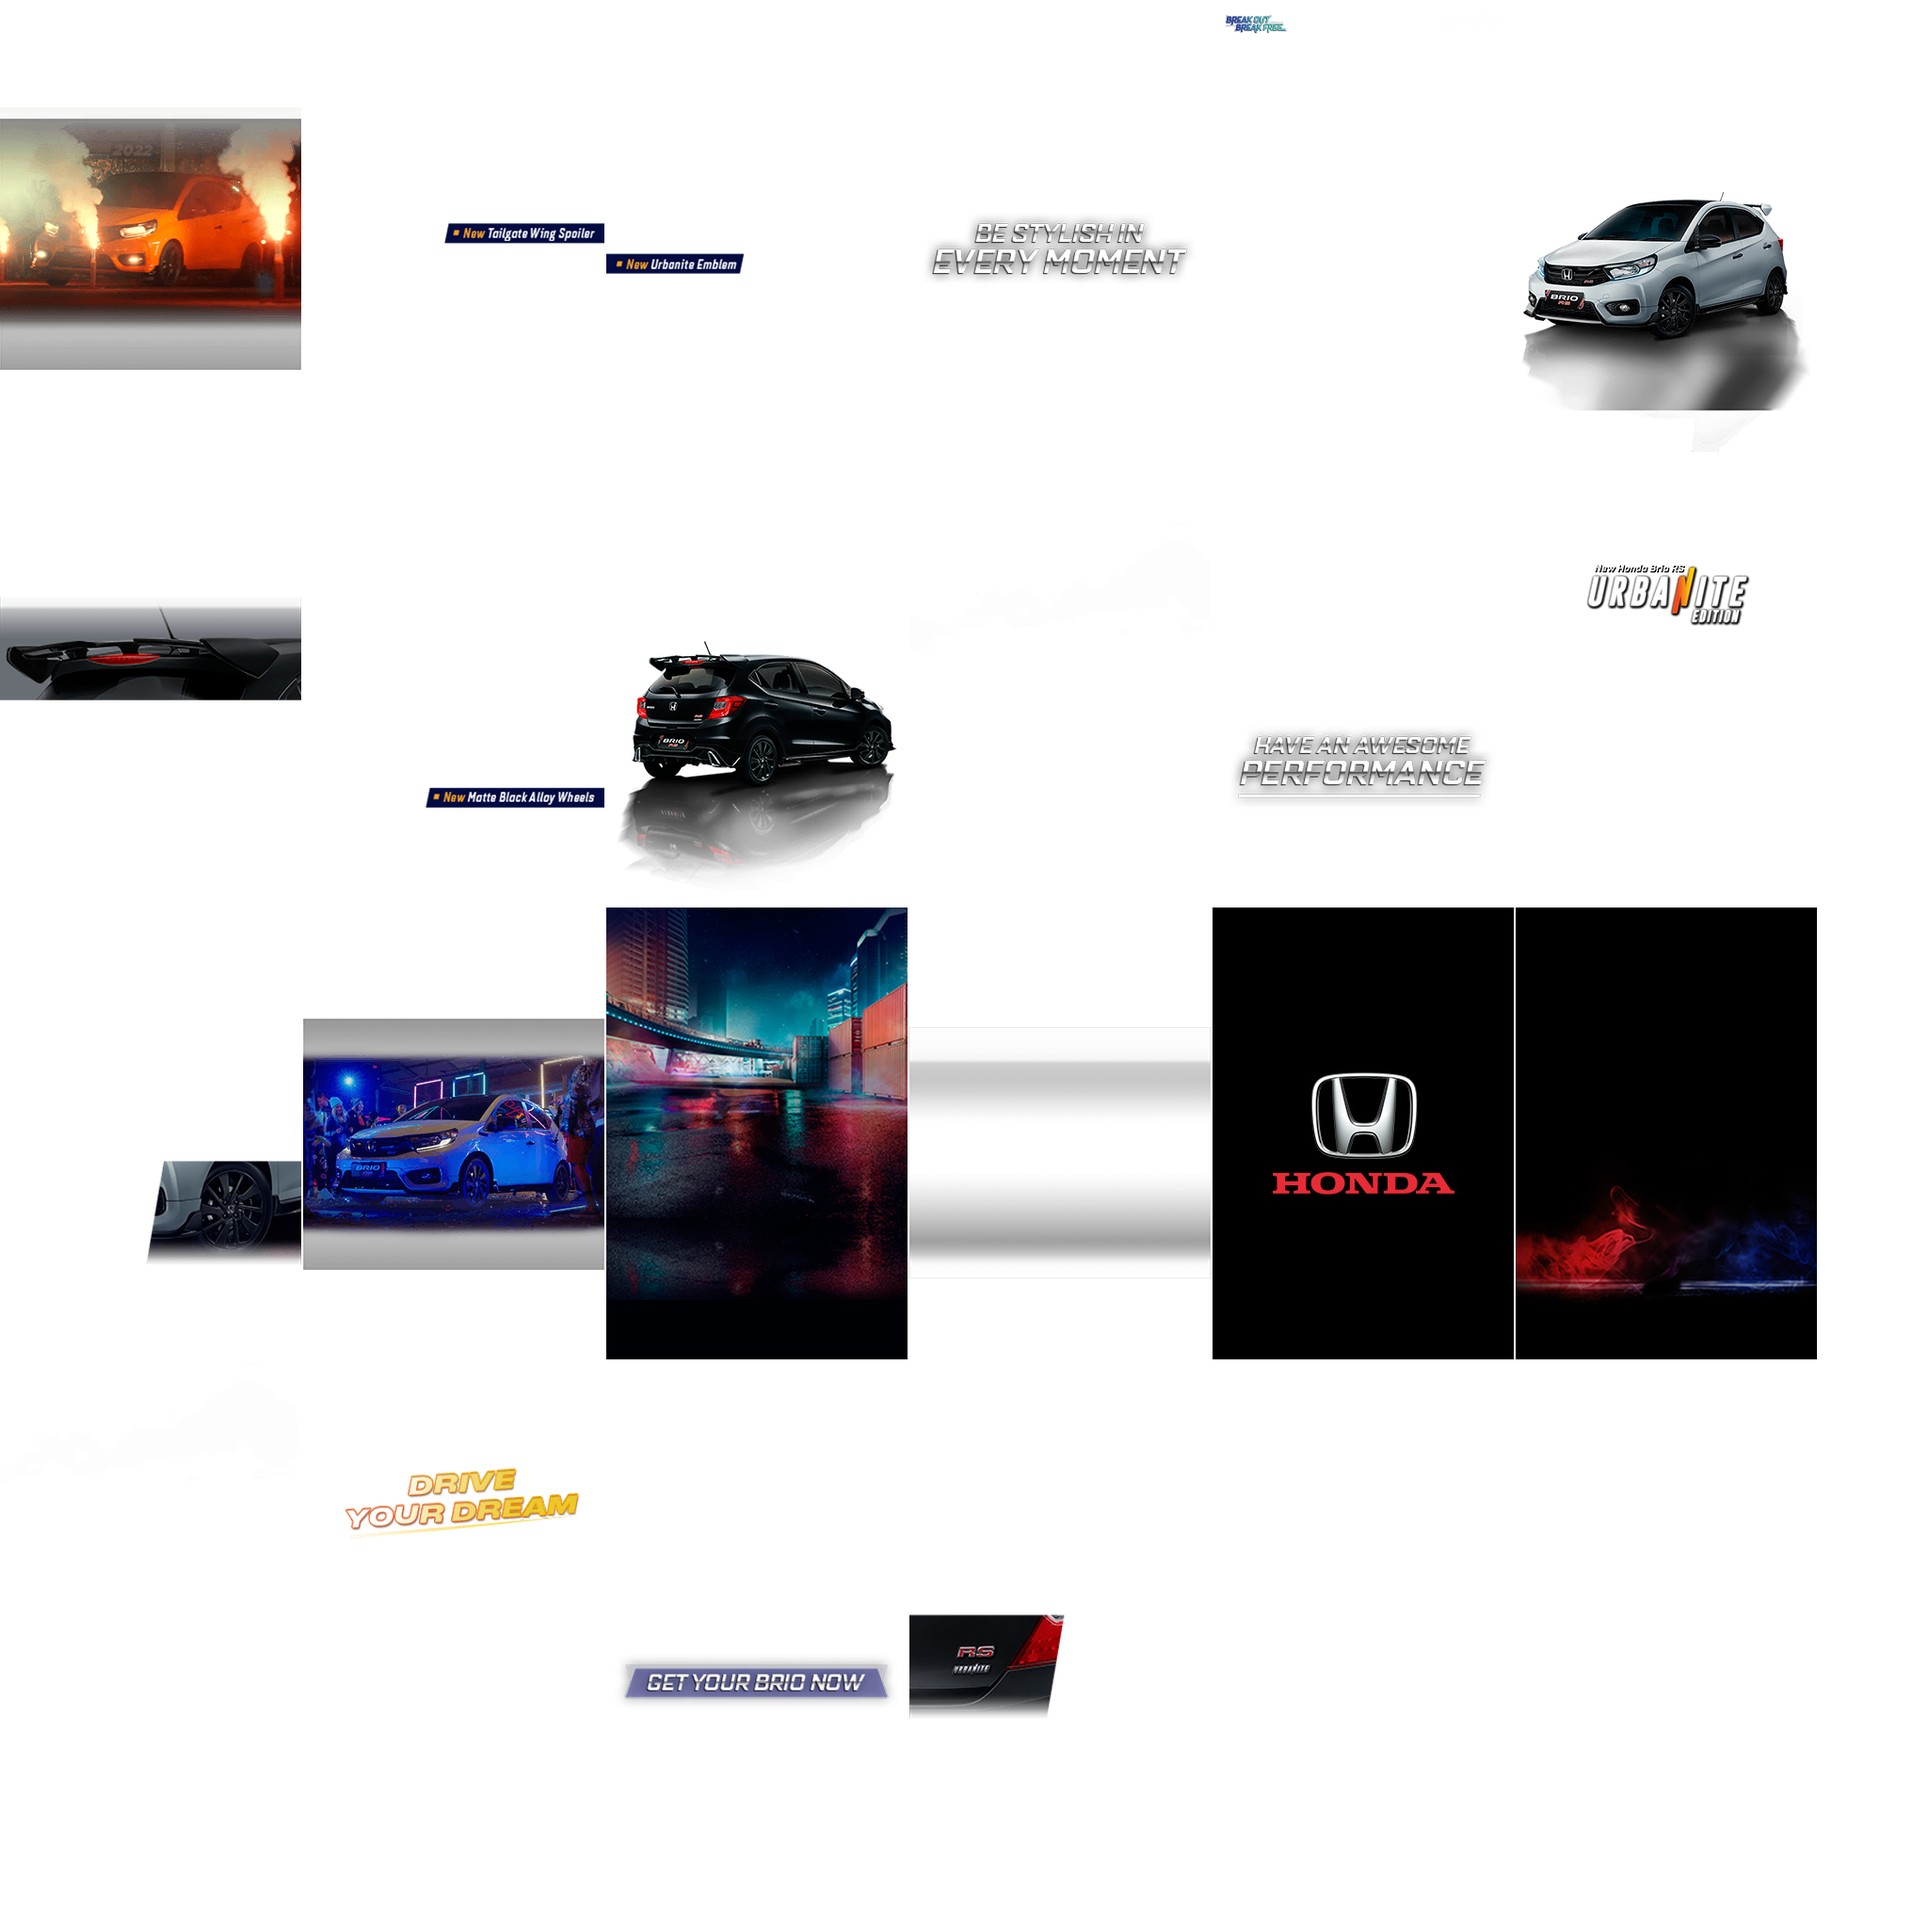
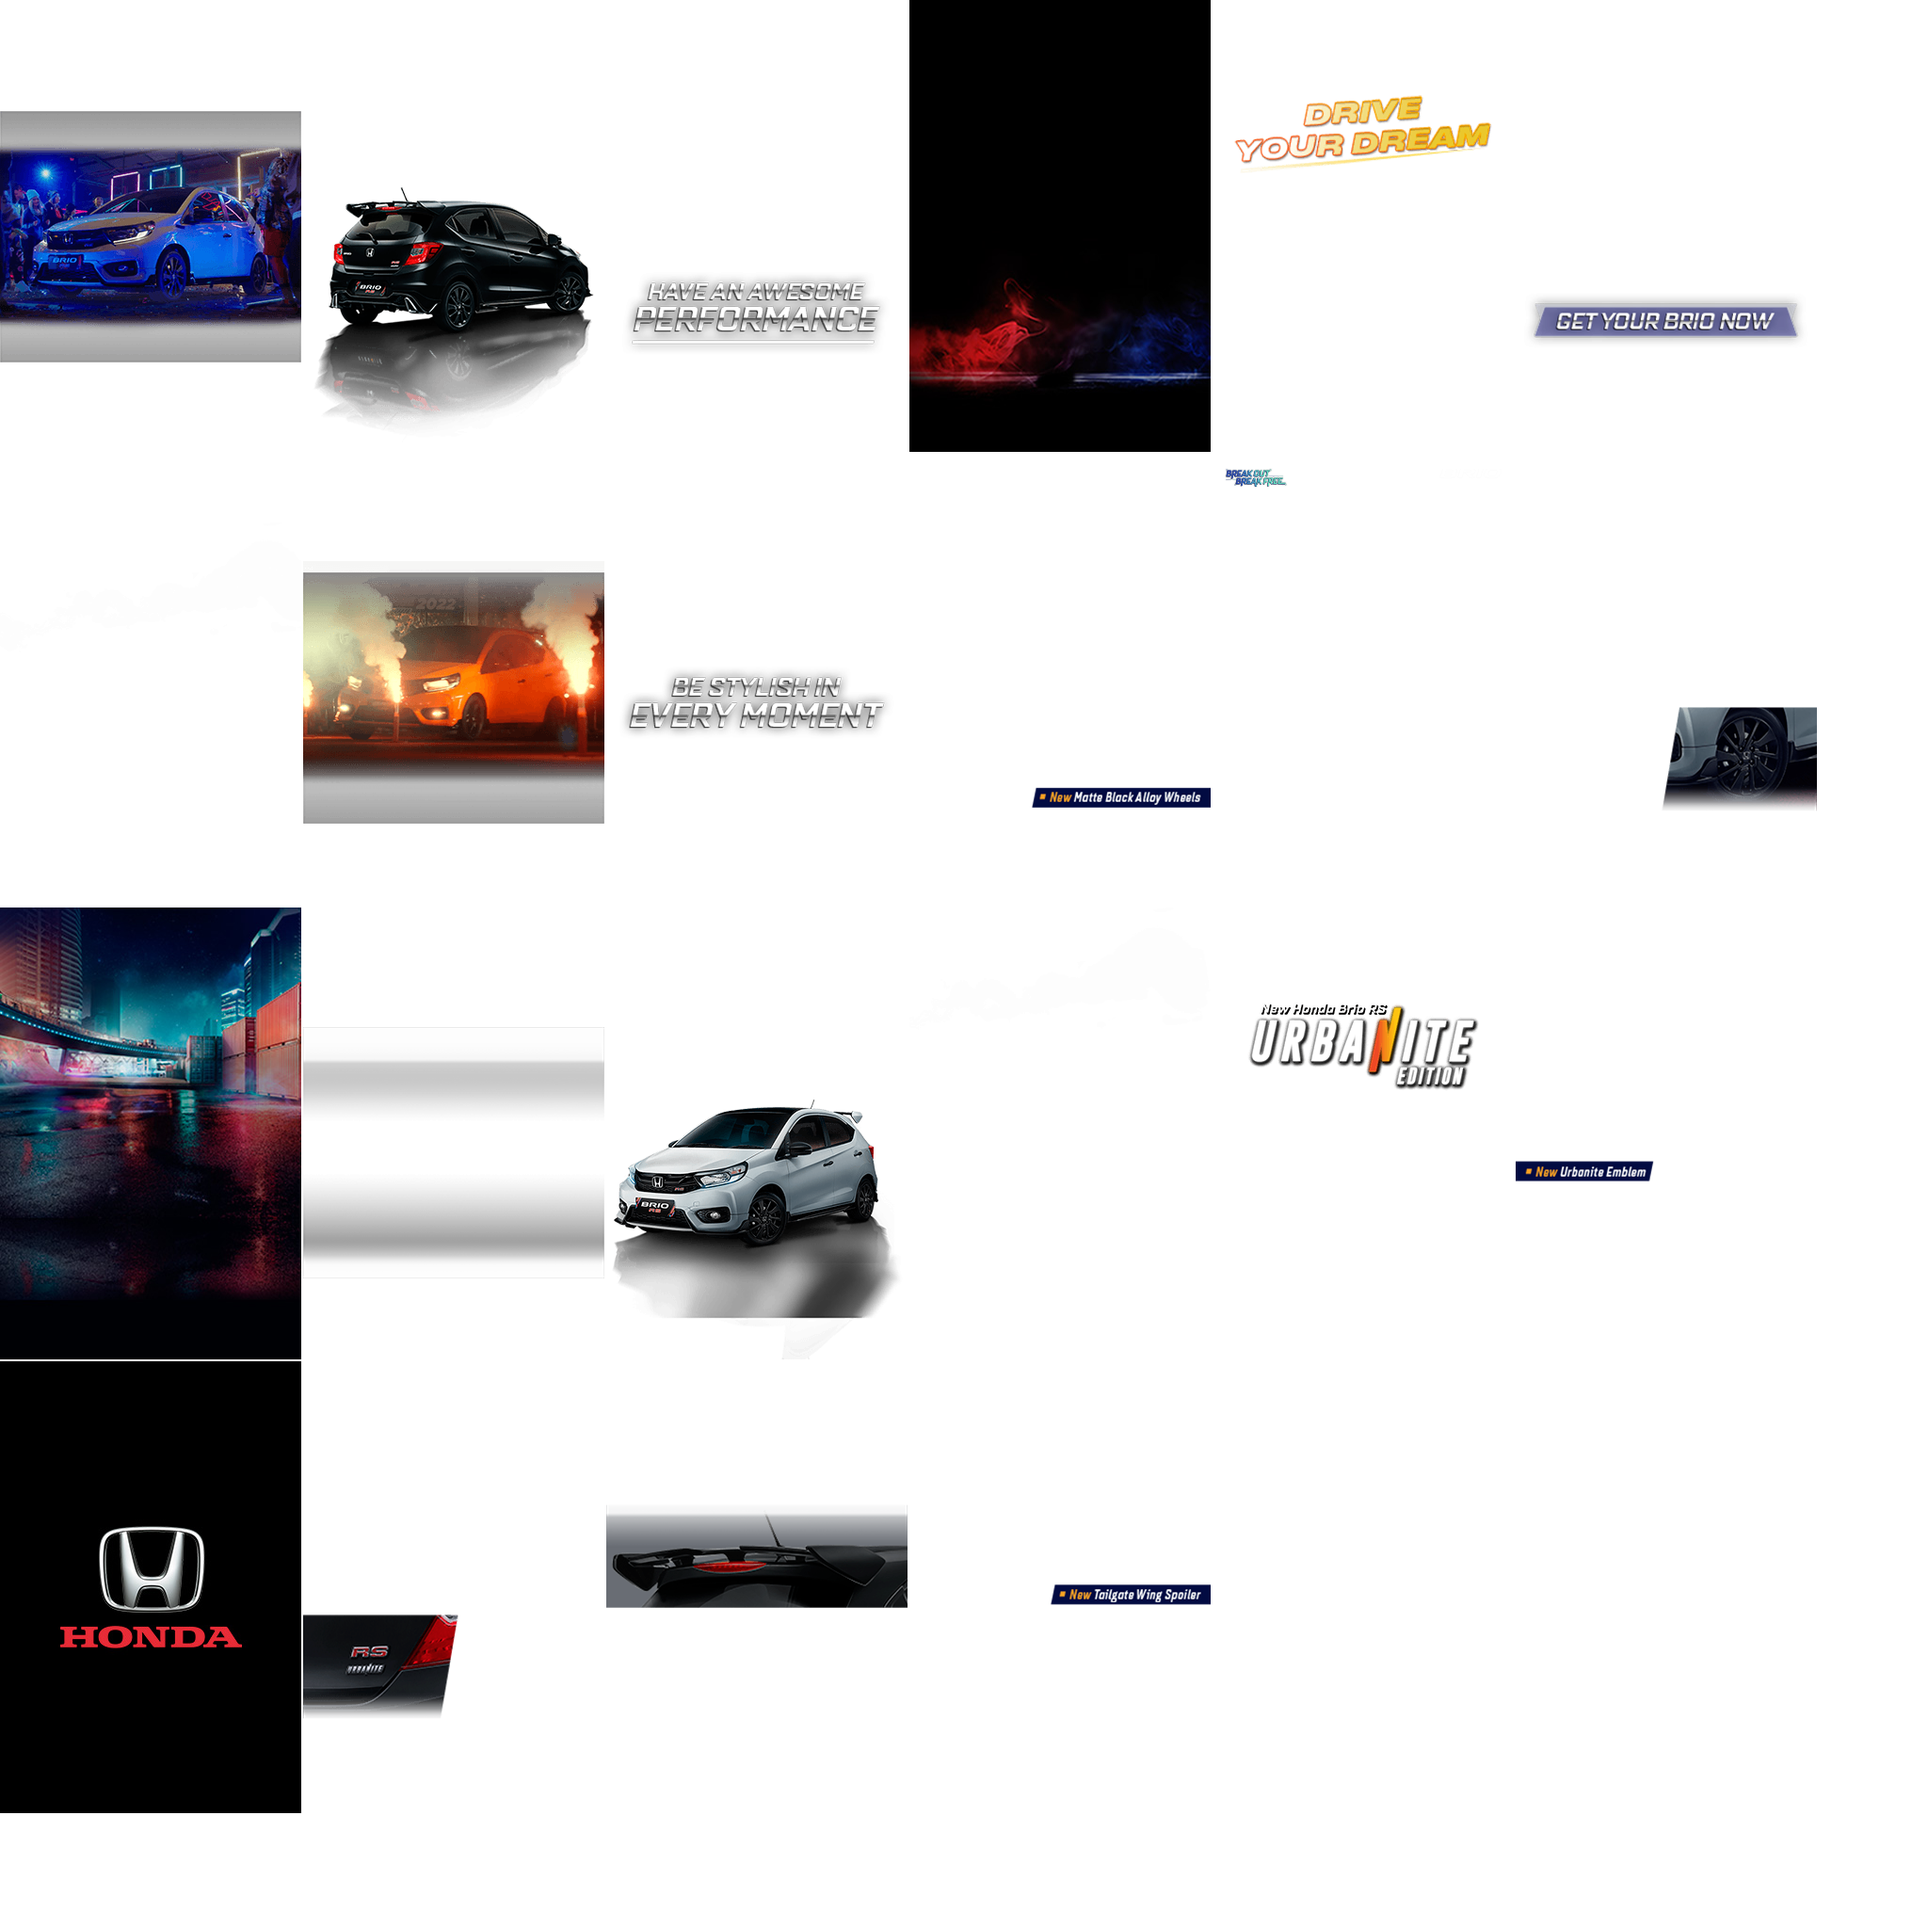
sefsf

diff --git a/m.idntimes/megabillboard/honda/brio/src/320x480/index.js b/m.idntimes/megabillboard/honda/brio/src/320x480/index.js
@@ -3,7 +3,7 @@
 var p; // shortcut to reference prototypes
 var lib={};var ss={};var img={};
 lib.ssMetadata = [
-		{name:"index_atlas_", frames: [[644,964,320,480],[1610,964,320,480],[1288,964,320,480],[322,1446,320,480],[644,482,320,480],[1288,482,320,480],[0,0,320,480],[644,1446,320,480],[322,964,320,480],[966,482,320,480],[0,1446,320,480],[1610,482,320,480],[1610,0,320,480],[966,964,320,480],[966,0,320,480],[322,0,320,480],[0,482,320,480],[644,0,320,480],[966,1446,320,480],[322,482,320,480],[0,964,320,480],[1288,0,320,480]]}
+		{name:"index_atlas_", frames: [[0,964,320,480],[966,0,320,480],[0,1446,320,480],[1288,0,320,480],[322,0,320,480],[644,0,320,480],[322,482,320,480],[1610,0,320,480],[0,0,320,480],[0,482,320,480],[966,964,320,480],[1288,964,320,480],[644,964,320,480],[322,964,320,480],[644,482,320,480],[966,1446,320,480],[644,1446,320,480],[1610,964,320,480],[322,1446,320,480],[966,482,320,480],[1610,482,320,480],[1288,482,320,480]]}
 ];
 
 
